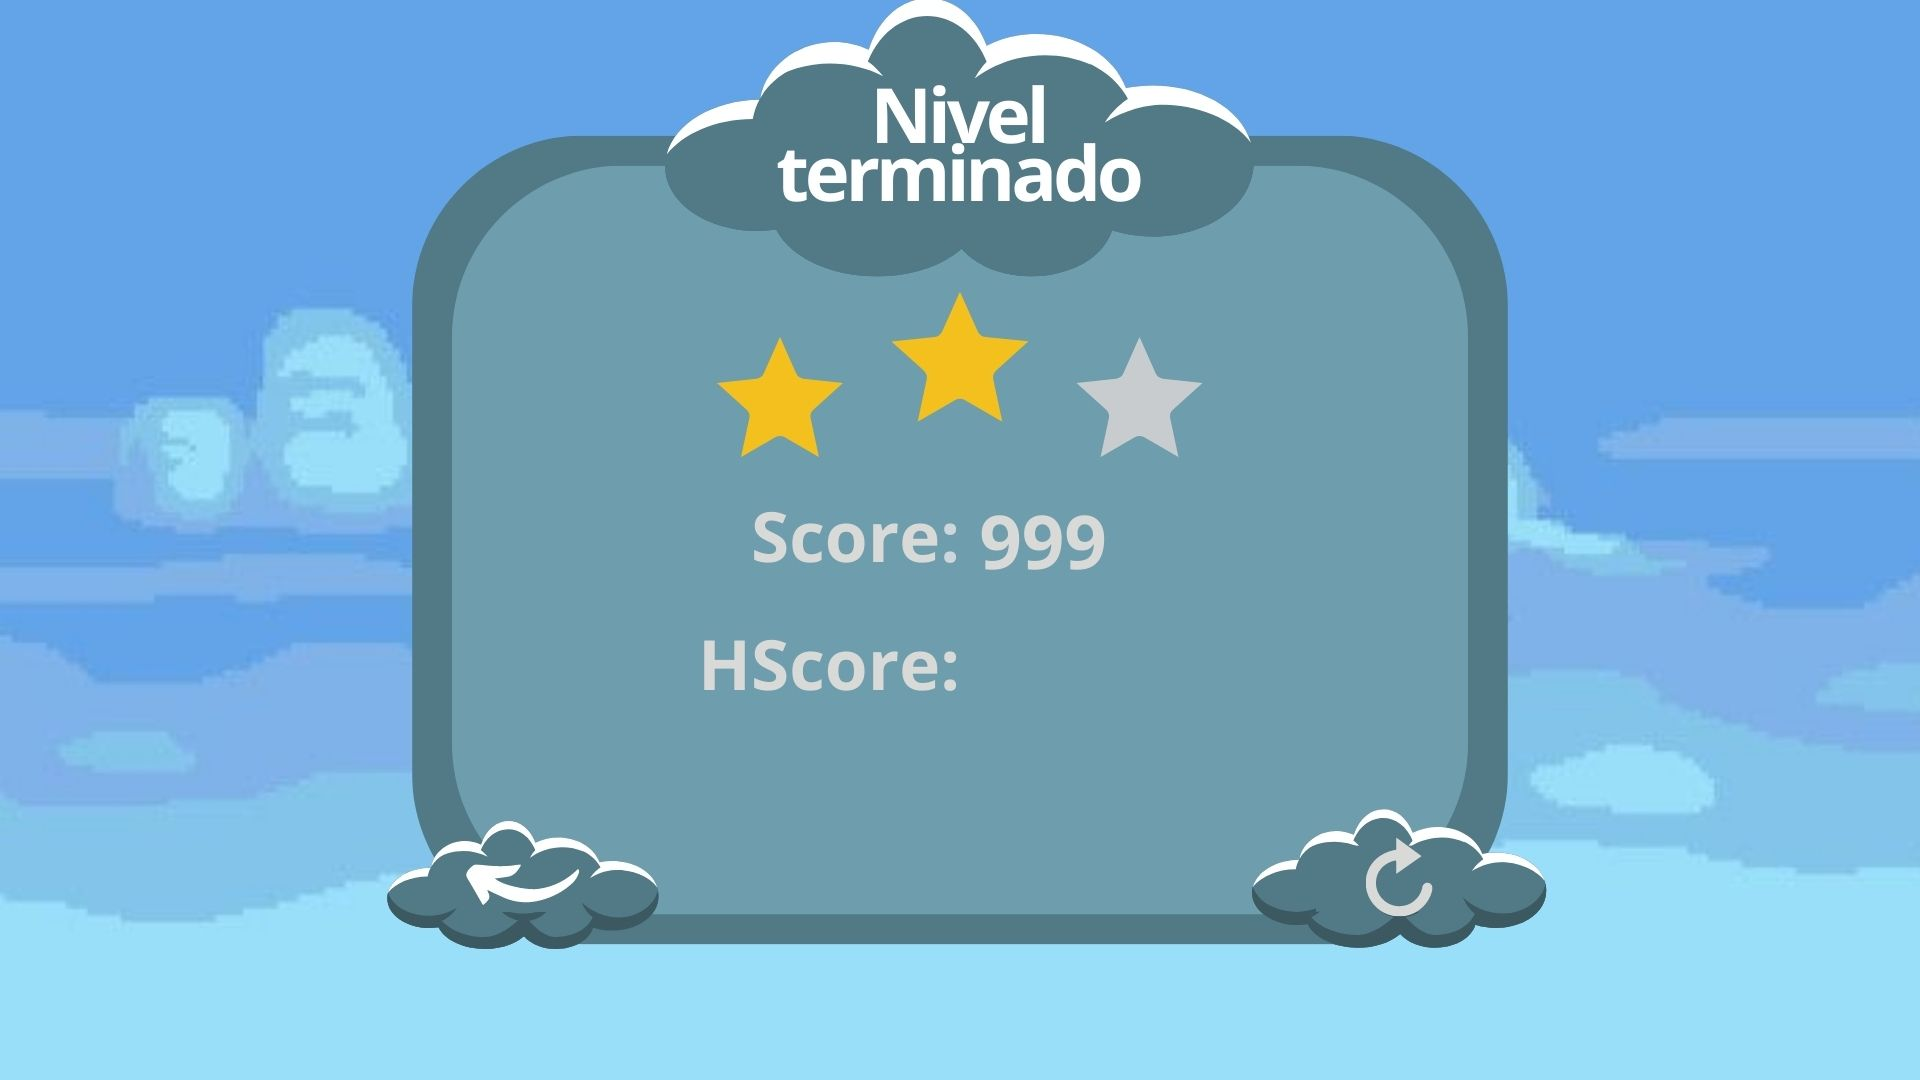
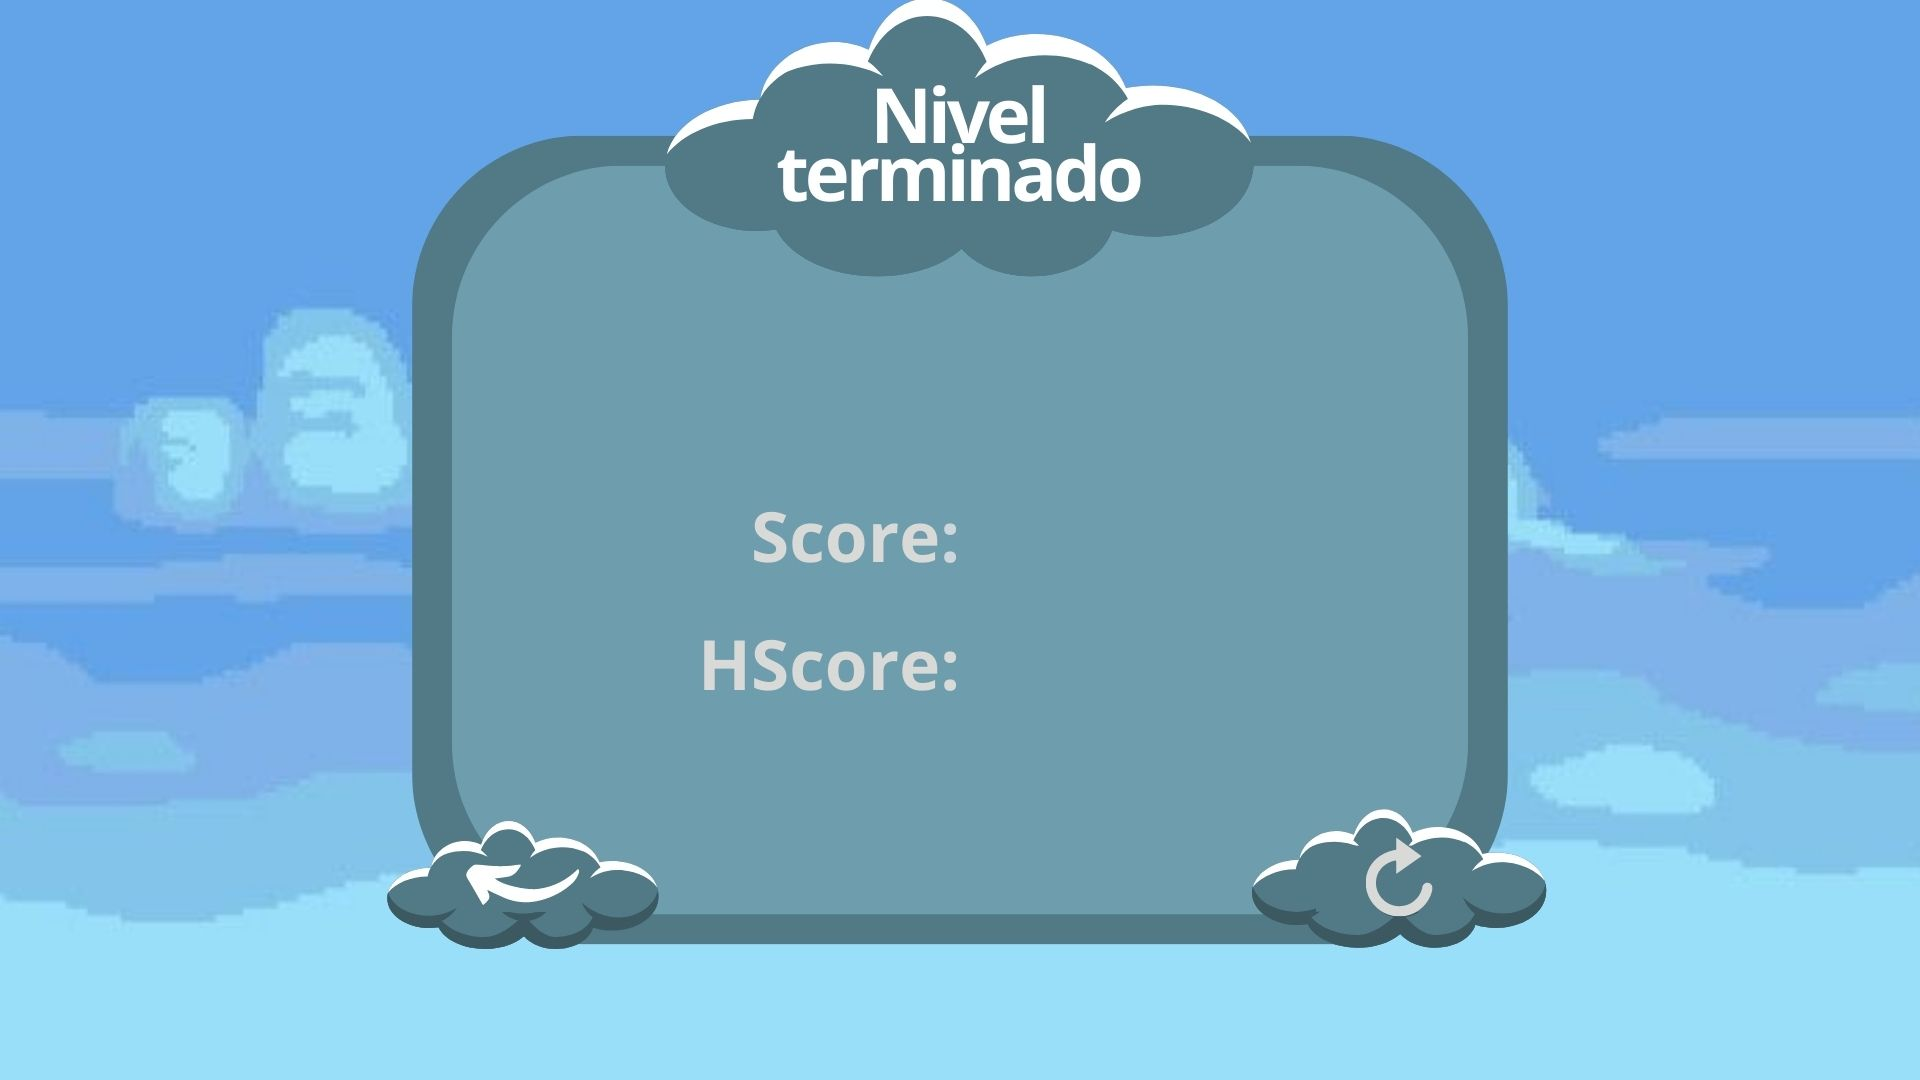
score y estrellas

diff --git a/assets/scenes/Game.js b/assets/scenes/Game.js
@@ -24,7 +24,7 @@ export default class Game extends Phaser.Scene {
 
     this.isWinner = false;
     this.gameOver = false;
-    this.vida = 0;
+    this.vida = 3;
     this.score = 0;
     this.Hscore = 0;
   }
@@ -51,7 +51,7 @@ export default class Game extends Phaser.Scene {
     this.add.image(120, 580, "ground").setScale(1);
     this.ground.setVisible(false);
 
-    this.timeText = this.add.text(600, 15, "Score: 0", {
+    this.scoreText = this.add.text(590, 15, "Score: 0", {
       fontSize: "30px",
       fontStyle: "bold",
     });
@@ -60,7 +60,6 @@ export default class Game extends Phaser.Scene {
     const player = this.physics.add.sprite(400, 150, "PJPrin").setScale(0.20);
 
     this.shapesGroup = this.physics.add.group();
-    this.proj = this.add.group();
 
     this.cameras.main.setBounds(0, 0, config.width, config.height);
     this.cameras.main.setFollowOffset(0, -config.height / 2);
@@ -69,19 +68,9 @@ export default class Game extends Phaser.Scene {
 
     this.player = player;
     this.player.setCollideWorldBounds(true);
-    let beam = this.physics.add.sprite(this.player.x, this.player.y, "beam")
-    .setScale(3)
-    .setVelocityY(500)
-    .setVisible(false);
-    // obstacles
-
-    //const dron = this.physics.add.image(120, 550, "dron").setScale(0.17);
-    //this.dron = dron;
 
     // colliders
     this.physics.add.collider(this.player, this.shapesGroup);
-    this.physics.add.collider(beam, this.shapesGroup);
-    this.physics.add.collider(this.player, beam);
     this.physics.add.overlap(
       this.player,
       this.shapesGroup,
@@ -103,20 +92,24 @@ export default class Game extends Phaser.Scene {
 
   update() {
     if (this.gameOver ) {
-      this.scene.start("TranPr"); // Momentáneo, habrá pantalla.
+      this.scene.start("TranPr",{ score: this.score }); // Momentáneo, habrá pantalla.
     }
     if (this.isWinner) {
       this.scene.start("TranPr"); // Momentáneo, habrá pantalla.
     }
-    if (this.vida >= 3){
+    if (this.vida < 1){
       this.scene.start("TranPr");
     }
 
+    this.scoreText.setText(
+      "Score: "+
+      this.score
+    );
     //mov
     if (this.cursors.left.isDown) {
-      this.player.setVelocityX(-300);
+      this.player.setVelocityX(-330);
     } else if (this.cursors.right.isDown) {
-      this.player.setVelocityX(300);
+      this.player.setVelocityX(330);
     } else {
       this.player.setVelocityX(0);
     }
@@ -163,12 +156,8 @@ export default class Game extends Phaser.Scene {
 collectShape(player, shapeGroup) {
   console.log("figura recolectada");
   shapeGroup.disableBody(true, true);
-  this.vida = this.vida + 1;
+  this.vida = this.vida - 1;
   console.log("LEER ACA" + this.vida)
-  const shapeName = shapeGroup.texture.key;
-  const scoreNow = this.shapesRecolected[shapeName].score;
-  this.score = this.score + scoreNow;
-  console.log("test " + this.score)
 }
 //dron() { 
   //Game.physics.add.image(120, 550, "dron").setScale(0.17);
@@ -185,9 +174,18 @@ addShape() {
 
   console.log("shape is added", randomX, Game.dron);
 }
+destroyShape(beam, shapeGroup) {
+  shapeGroup.disableBody(true, true);
+  this.beam.disableBody(true, true);
+  const shapeName = shapeGroup.texture.key;
+  const scoreNow = this.shapesRecolected[shapeName].score;
+  this.score = this.score + scoreNow;
+  console.log("test " + this.score)
+}
 shootBeam(){
-  const beam = this.physics.add.sprite(this.player.x, this.player.y, "beam")
+  this.beam = this.physics.add.sprite(this.player.x, this.player.y, "beam")
   .setScale(3)
   .setVelocityY(500);
+  this.physics.add.collider(this.beam, this.shapesGroup,this.destroyShape, null, this)
 }
 }

diff --git a/assets/scenes/TranPrimLvl.js b/assets/scenes/TranPrimLvl.js
@@ -3,8 +3,10 @@ export default class TranPr extends Phaser.Scene {
       super("TranPr");
     }
   
-    init() {
-     
+    init(data) {
+     this.finalScorePr = data.score || 600;
+     this.Hscore = 0;
+     console.log(this.finalScorePr);
     }
   
     
@@ -29,16 +31,55 @@ export default class TranPr extends Phaser.Scene {
         
               RetryOption.setTint(0x285866);
             });
-            RetryOption.on("pointerout", () => {
+              RetryOption.on("pointerout", () => {
         
               RetryOption.clearTint();
             });
-                   RetryOption.on("pointerup", () => {
-                      this.scene.start("Game");
-                  })
+              RetryOption.on("pointerup", () => {
+              this.scene.start("Game");
+              })
+      this.scoreText = this.add.text(415, 284, "0", {
+        fontSize: "35px",
+        fontStyle: "bold",
+      });
+
+      this.HscoreText = this.add.text(413, 342, "0", {
+        fontSize: "35px",
+        fontStyle: "bold",
+      });
+
+       this.oneSt = this.add.image(400,220,"onSt")
+      .setScale(0.16)
+      .setVisible(false);
+
+      this.twoSt = this.add.image(400,220,"twSt")
+      .setScale(0.18)
+      .setVisible(false);
+
+      this.thSt = this.add.image(400,222,"thSt")
+      .setScale(0.16)
+      .setVisible(false);
+
     }
   
     update() {
-   
+      this.scoreText.setText(
+        this.finalScorePr
+      );
+    if (this.finalScorePr > this.Hscore) {
+      this.Hscore = this.finalScorePr
+    };
+    this.HscoreText.setText(
+      this.Hscore
+    );
+    if (this.finalScorePr >= 900) {
+      this.thSt.setVisible(true);
+    }
+    if (this.finalScorePr < 900 && this.finalScorePr > 400) {
+      this.twoSt.setVisible(true);
+    }
+    if (this.finalScorePr <= 400 ) {
+      this.oneSt.setVisible(true);
+    }
     }
   }

diff --git a/assets/scenes/PreLoad.js b/assets/scenes/PreLoad.js
@@ -19,6 +19,8 @@ export default class PreLoad extends Phaser.Scene {
     this.load.image("ayuda","./public/images/ayuda.jpg");
     this.load.image("back","./public/images/optBackSel.png");
     this.load.image("sky", "./public/images/sky.jpg");
+    this.load.image("sunrise", "./public/images/sunrise.jpg");
+    this.load.image("mount", "./public/images/mountSun.jpg");
     this.load.image("ground", "./public/images/ground.png");
     this.load.image("dron", "./public/images/dron.png");
     this.load.image("playButt","./public/images/playButt.png");
@@ -26,6 +28,11 @@ export default class PreLoad extends Phaser.Scene {
     this.load.image("reint","./public/images/reint.png");
     this.load.image("ave", "./public/images/ave.png");
     this.load.image("globo", "./public/images/globoS.png");
+    this.load.image("onSt", "./public/images/onSt.png");
+    this.load.image("twSt", "./public/images/twSt.png");
+    this.load.image("thSt", "./public/images/thSt.png");
+
+    
 
     //change for spritesheet pjPrin
     this.load.image("PJPrin", "./public/images/PJPrin.png");

diff --git a/assets/scenes/PrincipalMenu.js b/assets/scenes/PrincipalMenu.js
@@ -44,7 +44,7 @@ helpButton.on("pointerout", () => {
   helpButton.clearTint();
 });
         helpButton.on("pointerup", () => {
-            this.scene.start("Help");
+            this.scene.start("TranPr"); // Help
         })
   this.helpText = this.add.text(350, 352, "AYUDA", {
           fontSize: "30px",

diff --git a/assets/scenes/Util.js b/assets/scenes/Util.js
@@ -2,9 +2,9 @@ const DRON = "dron";
 const GLOBO = "globo";
 const AVE = "ave";
 
-const beam = "beam";
+//const beam = "beam";
 
 const OBST_DELAY = 2000;
 const OBST = [DRON, GLOBO, AVE];
 
-export {DRON, GLOBO, AVE, OBST_DELAY, OBST, beam};
+export {DRON, GLOBO, AVE, OBST_DELAY, OBST};

diff --git a/index.html b/index.html
@@ -12,7 +12,6 @@
     
     <!-- Import an run main.js : load the game config and start first scene -->
     <script type="module" src="./main.js"></script>
-    <script type="text/javascript" src="beam.js"></script>
   </head>
   <body></body>
 </html>
